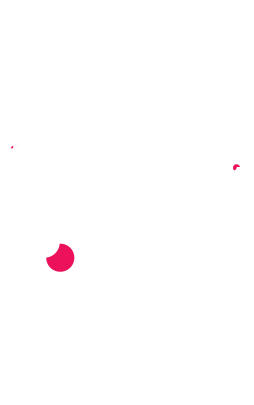
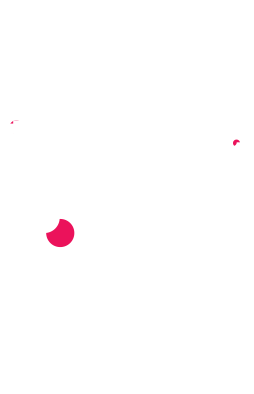
mobile

Changed region(s): [[0.1654, 0.5482, 0.3031, 0.6701], [0.9094, 0.3959, 0.937, 0.4264], [0.9094, 0.335, 0.937, 0.3655]]

diff --git a/style.css b/style.css
@@ -181,13 +181,19 @@ html {
         z-index: 999; }
         @media screen and (max-width: 768px) {
           html body #home .home-title {
-            width: 262px;
-            height: auto;
-            margin-left: -131px;
-            margin-top: -155px; } }
+            display: none; } }
+      html body #home .mobile-home-title {
+        display: none; }
+        @media screen and (max-width: 768px) {
+          html body #home .mobile-home-title {
+            position: relative;
+            display: block;
+            margin: auto;
+            margin-top: 100px;
+            width: 60%; } }
       @media screen and (max-width: 768px) {
         html body #home {
-          height: 667px; } }
+          height: 100vh; } }
     html body #openhci2016 {
       height: 100vh; }
       html body #openhci2016 .biggreen {
@@ -258,7 +264,8 @@ html {
           @media screen and (max-width: 1050px) {
             html body #openhci2016 .frame .title {
               float: none;
-              width: 100%; } }
+              width: 100%;
+              margin-bottom: 50px; } }
         html body #openhci2016 .frame .content {
           width: 70%;
           float: right;
@@ -272,11 +279,11 @@ html {
               margin-top: 20px; } }
         @media screen and (max-width: 1050px) {
           html body #openhci2016 .frame {
-            width: 90%;
-            padding: 100px 0 0 0; } }
+            width: 80%;
+            padding: 0 0 0 0; } }
       @media screen and (max-width: 768px) {
         html body #openhci2016 {
-          height: 667px; } }
+          height: initial; } }
     html body #introngoals {
       height: 100vh; }
       html body #introngoals .intro-bg {
@@ -317,7 +324,8 @@ html {
           @media screen and (max-width: 1050px) {
             html body #introngoals .frame .title {
               float: none;
-              width: 100%; } }
+              width: 100%;
+              margin-bottom: 50px; } }
         html body #introngoals .frame .content {
           width: 70%;
           float: right;
@@ -331,7 +339,7 @@ html {
               margin-top: 20px; } }
         @media screen and (max-width: 1050px) {
           html body #introngoals .frame {
-            width: 90%;
+            width: 80%;
             padding: 100px 0 0 0; } }
       @media screen and (max-width: 1050px) {
         html body #introngoals {
@@ -364,6 +372,9 @@ html {
           @media screen and (max-width: 1050px) {
             html body #program .frame .title .subtitle {
               margin-left: 6px; } }
+        @media screen and (max-width: 768px) {
+          html body #program .frame .title {
+            margin-bottom: 50px; } }
         html body #program .frame #schedule {
           margin-top: 50px; }
           html body #program .frame #schedule .days {
@@ -618,7 +629,7 @@ html {
               margin-top: 16px; } }
         @media screen and (max-width: 1050px) {
           html body #program .frame {
-            width: 90%;
+            width: 80%;
             padding: 100px 0 0 0; } }
       @media screen and (max-width: 768px) {
         html body #program {
@@ -679,7 +690,7 @@ html {
             @media screen and (max-width: 1050px) {
               html body #registration .frame .title .button {
                 margin-top: 25px;
-                padding-top: 15%; } }
+                padding-top: 9%; } }
           @media screen and (max-width: 1050px) {
             html body #registration .frame .title {
               width: 100%;
@@ -738,7 +749,7 @@ html {
               float: none; } }
         @media screen and (max-width: 1050px) {
           html body #registration .frame {
-            width: 90%;
+            width: 80%;
             padding: 100px 0 0 0; } }
       @media screen and (max-width: 1050px) {
         html body #registration {
@@ -903,10 +914,13 @@ html {
           margin-left: 37px; }
         html body #sponsor .frame .sponsor :nth-child(2) {
           margin-left: 13px; }
+        @media screen and (max-width: 768px) {
+          html body #sponsor .frame .sponsor :nth-child(4) {
+            margin-left: 4px; } }
         @media screen and (max-width: 1050px) {
           html body #sponsor .frame {
-            width: 90%;
-            padding: 100px 0 0 0; } }
+            width: 80%;
+            padding: 0 0 0 0; } }
       @media screen and (max-width: 768px) {
         html body #sponsor {
           height: initial; } }
@@ -943,15 +957,19 @@ html {
             html body #contact .frame .info div a:hover {
               color: #ec125b; }
           html body #contact .frame .info .copyright {
-            margin-top: 25px; }
+            margin-top: 25px;
+            margin-bottom: 40px; }
         @media screen and (max-width: 1050px) {
           html body #contact .frame {
             width: 90%;
             padding: 100px 0 0 0; } }
-    @media screen and (max-width: 769px) {
+      @media screen and (max-width: 768px) {
+        html body #contact {
+          height: initial; } }
+    @media screen and (max-width: 768px) {
       html body {
         background-image: url(img/rwd_bg.png);
         background-size: cover;
-        background-position-y: -3%; } }
+        background-position-y: -1%; } }
 
 /*# sourceMappingURL=style.css.map */

diff --git a/style.scss b/style.scss
@@ -221,14 +221,21 @@ html{
         margin-top: -230px;
         z-index: 999;
         @media screen and (max-width: 768px){
-          width: 262px;
-          height: auto;
-          margin-left: -131px;
-          margin-top: -155px;
+          display: none;
+        }
+      }
+      .mobile-home-title{
+        display: none;
+        @media screen and (max-width: 768px){
+          position: relative;
+          display: block;
+          margin: auto;
+          margin-top: 100px;
+          width: 60%;
         }
       }
       @media screen and (max-width: 768px){
-        height: 667px;
+        height: 100vh;
       }
     }
 
@@ -309,6 +316,7 @@ html{
           @media screen and (max-width: 1050px){
             float: none;
             width: 100%;
+            margin-bottom: 50px;
           }
         }
         .content{
@@ -325,18 +333,17 @@ html{
           }
         }
         @media screen and (max-width: 1050px){
-          width: 90%;
-          padding: 100px 0 0 0;
+          width: 80%;
+          padding: 0 0 0 0;
         }
       }
       @media screen and (max-width: 768px){
-        height: 667px;
+        height: initial;
       }
     }
 
     #introngoals{
       height: 100vh;
-
       .intro-bg{
         position: absolute;
         left: 50%;
@@ -379,6 +386,7 @@ html{
           @media screen and (max-width: 1050px){
             float: none;
             width: 100%;
+            margin-bottom: 50px;
           }
         }
         .content{
@@ -395,7 +403,7 @@ html{
           }
         }
         @media screen and (max-width: 1050px){
-          width: 90%;
+          width: 80%;
           padding: 100px 0 0 0;
         }
       }
@@ -438,6 +446,9 @@ html{
             @media screen and (max-width: 1050px){
               margin-left: 6px;
             }
+          }
+          @media screen and (max-width: 768px){
+            margin-bottom: 50px;
           }
         }
         #schedule{
@@ -757,7 +768,7 @@ html{
           }
         }
         @media screen and (max-width: 1050px){
-          width: 90%;
+          width: 80%;
           padding: 100px 0 0 0;
         }
       }
@@ -820,7 +831,7 @@ html{
             animation-iteration-count: infinite;
             @media screen and (max-width: 1050px){
               margin-top: 25px;
-              padding-top: 15%;
+              padding-top: 9%;
             }
           }
           @media screen and (max-width: 1050px){
@@ -883,7 +894,7 @@ html{
           }
         }
         @media screen and (max-width: 1050px){
-          width: 90%;
+          width: 80%;
           padding: 100px 0 0 0;
         }
       }
@@ -1083,10 +1094,15 @@ html{
           :nth-child(2){
             margin-left: 13px;
           }
+          @media screen and (max-width: 768px){
+            :nth-child(4){
+              margin-left: 4px;
+            }
+          }
         }
         @media screen and (max-width: 1050px){
-          width: 90%;
-          padding: 100px 0 0 0;
+          width: 80%;
+          padding: 0 0 0 0;
         }
       }
       @media screen and (max-width: 768px){
@@ -1134,6 +1150,7 @@ html{
           }
           .copyright{
             margin-top: 25px;
+            margin-bottom: 40px;
           }
         }
         @media screen and (max-width: 1050px){
@@ -1141,13 +1158,16 @@ html{
           padding: 100px 0 0 0;
         }  
       }
+      @media screen and (max-width: 768px){
+        height: initial;
+      }
     }
 
 
-    @media screen and (max-width: 769px){
+    @media screen and (max-width: 768px){
       background-image: url(img/rwd_bg.png);
       background-size: cover;
-      background-position-y: -3%;
+      background-position-y: -1%;
     }
   }
 }

diff --git a/index.html b/index.html
@@ -97,6 +97,7 @@
 			<img src="img/home/bg/home_bg.png" class="home-bg">
 			<img src="img/home/bg/line.png" class="line">
 			<img src="img/home/home_title.png" class="home-title wow fadeIn">
+			<img src="img/home/mobile_title.png" class="mobile-home-title">
 		</section>
 
 		<!--OpenHCI 2016-->	
@@ -744,7 +745,7 @@
 						OPEN HCI : 
 							<a href="2015/index.html" TARGET="_blank">2015</a>
 							<a href="2014/index.html" TARGET="_blank">2014</a>
-							<a href="2013/index.html" TARGET="_blank">2013</a>		
+							<a href="2013/index.html" TARGET="_blank">2013</a>
 							<a href="https://dev-dot-ntu-openhci.appspot.com/" TARGET="_blank">2012</a>
 							<a href="https://2011-dot-ntu-openhci.appspot.com/" TARGET="_blank">2011</a>
 							<a href="2009/index.html" TARGET="_blank">2009</a>
